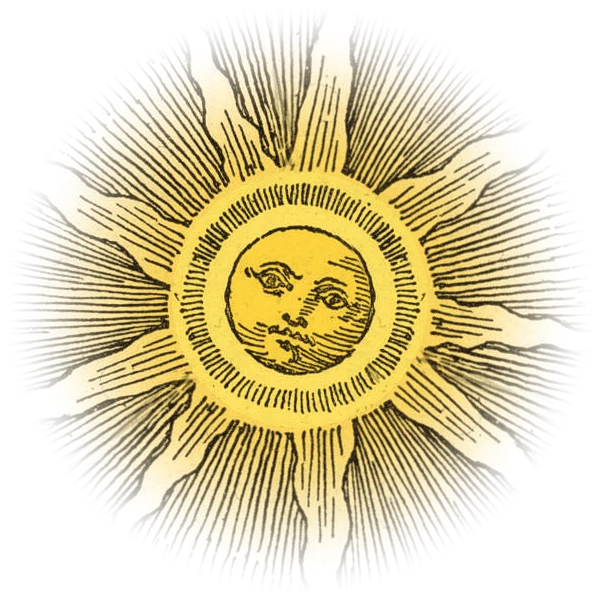
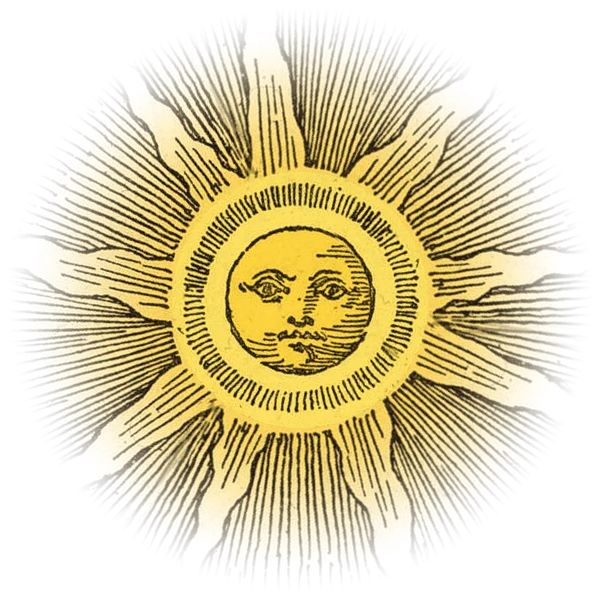
Sky: the real stars (Hipparcos, to magnitude 5) forming the constellations; no hatching; the sun's face upright
Claude-Session: https://claude.ai/code/session_014gHAygrTN4wxu9kfzf1eLB

diff --git a/mapsun.js b/mapsun.js
@@ -336,13 +336,18 @@ async function sunHere() {
 const mat4v = (m, v) => [0, 1, 2, 3].map(i => m[i] * v[0] + m[4 + i] * v[1] + m[8 + i] * v[2] + m[12 + i] * v[3]);
 const skyDir = (az, alt) => [Math.cos(alt * RAD) * Math.sin(az * RAD), Math.sin(alt * RAD), -Math.cos(alt * RAD) * Math.cos(az * RAD)];   // (x east, y up, z south)
 // Behind the map, wherever no earth is seen (around the globe, above the horizon of a tilted view): the sky of Flammarion's
-// engraving (1888) – blue, deeper higher up, finely hatched, with yellow six-pointed stars outlined in black, fixed among
-// themselves and turning with the sky (a scattering, not a star chart). The sun and the moon are cut from the engraving and
-// coloured (sky/sun.webp – its right side, hidden there by the frame, completed from the left; sky/moon.webp, the crescent – v339).
-const STARS = (() => { let sd = 11; const r = () => (sd = (sd * 16807) % 2147483647) / 2147483647;
-  return Array.from({ length: 3600 }, () => { const u = r(), m = r();
-    return { ra: r() * 360, dec: Math.asin(2 * u - 1), s: 0.32 + 0.6 * m ** 2.5, rot: r() * 60, j: Array.from({ length: 6 }, () => 0.85 + 0.3 * r()), h: r() < 0.04 }; }); })();
+// engraving (1888) – blue, deeper higher up – with yellow six-pointed stars outlined in black: the real stars, down to the fifth
+// magnitude (Hipparcos, via d3-celestial: sky/stars.json – [right ascension, declination, magnitude, HIP number], J2000), so that
+// they form the constellations where they stand, turning with the sky. The sun and the moon are cut from the engraving and coloured
+// (sky/sun.webp – its right side, hidden there by the frame, completed from the left, the face set upright; sky/moon.webp – v339/340).
 const SKY = { img: {} };
+function skyStars() {                                               // (loaded once; the map is redrawn when they arrive)
+  if (SKY.stars !== undefined) return SKY.stars; SKY.stars = null;
+  fetch('sky/stars.json').then(r => r.json()).then(a => { SKY.stars = a.map(([ra, dec, mag, id]) => { let sd = id * 7919 % 2147483647 || 1; const r = () => (sd = (sd * 16807) % 2147483647) / 2147483647;
+    return { ra, dec: dec * RAD, s: Math.max(0.16, 0.2 + 0.15 * (5 - mag)), rot: r() * 60, j: Array.from({ length: 6 }, () => 0.88 + 0.24 * r()), h: mag < 0.6 }; }); M.map?.triggerRepaint(); })
+    .catch(() => { SKY.stars = undefined; });
+  return null;
+}
 function skyImg(n) {                                                // (the sprites, loaded once; the map is redrawn when they arrive)
   const o = SKY.img[n]; if (o) return o.complete && o.naturalWidth ? o : null;
   const im = SKY.img[n] = new Image(); im.onload = () => M.map?.triggerRepaint(); im.src = `sky/${n}.webp`; return null;
@@ -354,15 +359,6 @@ function skySunLow() {                                              // (the sun,
     x.globalCompositeOperation = 'destination-in'; x.drawImage(im, 0, 0); SKY.low = c; }
   return SKY.low;
 }
-function skyHatch(y, dir, col) {                                    // (fine diagonal hatching, in device pixels)
-  const dpr = devicePixelRatio || 1, k = `${dir}${dpr}${col}`;
-  if (!SKY[k]) { const n = Math.max(4, Math.round(7 * dpr)), c = document.createElement('canvas'); c.width = c.height = n; const x = c.getContext('2d');
-    x.strokeStyle = col; x.lineWidth = 1.1 * dpr;
-    for (const o of [-n, 0, n]) { x.beginPath(); if (dir > 0) { x.moveTo(o, n); x.lineTo(o + n, 0); } else { x.moveTo(o, 0); x.lineTo(o + n, n); } x.stroke(); }
-    SKY[k] = y.createPattern(c, 'repeat'); }
-  return SKY[k];
-}
-function skyHatchFill(y, dir, col) { y.save(); y.setTransform(1, 0, 0, 1, 0, 0); y.fillStyle = skyHatch(y, dir, col); y.fill(); y.restore(); }   // (the path as drawn; the pattern fixed to the screen)
 function skyStar(y, x0, y0, R, st) {
   y.beginPath();
   for (let i = 0; i < 12; i++) { const a = (st.rot + i * 30) * RAD, q = i % 2 ? 0.42 * R : R * st.j[i / 2]; y[i ? 'lineTo' : 'moveTo'](x0 + q * Math.sin(a), y0 - q * Math.cos(a)); }
@@ -385,13 +381,12 @@ function skyDraw(args) {
   if (bg.width !== Math.round(W * dpr) || bg.height !== Math.round(H * dpr)) { bg.width = Math.round(W * dpr); bg.height = Math.round(H * dpr); }
   const y = bg.getContext('2d'); y.setTransform(dpr, 0, 0, dpr, 0, 0);
   const sp = y.createLinearGradient(0, 0, 0, H); sp.addColorStop(0, '#0f2a66'); sp.addColorStop(1, '#3a73bb'); y.fillStyle = sp; y.fillRect(0, 0, W, H);
-  y.beginPath(); y.rect(0, 0, W, H); skyHatchFill(y, 1, 'rgba(6,14,40,.42)');
   const ref = sunRef(), t = sunTime(), P = args.defaultProjectionData.mainMatrix, MM = m.transform.getMatrixForModel([ref.lng, ref.lat], 0);
   const scr = d => { const c = mat4v(P, mat4v(MM, [...d, 0])); return c[3] > 1e-9 ? [(c[0] / c[3] + 1) / 2 * W, (1 - c[1] / c[3]) / 2 * H] : null; };
   const f = H / 2 / Math.tan((m.transform.fovInRadians || 0.6435) / 2), size = M.cfg.skySize || 10;
   // the stars: each a direction in the sky (right ascension, declination), turned with the sidereal time to the place shown
   { const gm = ((18.697374558 + 24.06570982441908 * (t / 864e5 - 10957.5)) % 24 + 24) % 24 * 15;
-    for (const st of STARS) { const a = sunAt({ dec: st.dec, lon: ((st.ra - gm + 540) % 360) - 180 }, ref.lng, ref.lat), p = scr(skyDir(a.az, a.alt)), R = st.s * RAD * f;
+    for (const st of skyStars() || []) { const a = sunAt({ dec: st.dec, lon: ((st.ra - gm + 540) % 360) - 180 }, ref.lng, ref.lat), p = scr(skyDir(a.az, a.alt)), R = st.s * RAD * f;
       if (!p || p[0] < -2 * R || p[1] < -2 * R || p[0] > W + 2 * R || p[1] > H + 2 * R) continue;
       skyStar(y, p[0], p[1], Math.max(2, R), st); } }
   if (!sunOn()) return;                                              // (the sun and the moon: with day and night)
@@ -413,8 +408,8 @@ function skyDraw(args) {
       const dot = ds[0] * dm[0] + ds[1] * dm[1] + ds[2] * dm[2], pe = ds.map((v, i) => v - dm[i] * dot), pl = Math.hypot(...pe) || 1;
       const q = scr(dm.map((v, i) => v + 0.02 * pe[i] / pl)), th = q ? Math.atan2(q[1] - p[1], q[0] - p[0]) : 0;
       y.save(); y.translate(p[0], p[1]); y.rotate(th);
-      // the dark side, hatched across the hatching of the sky
-      y.beginPath(); y.arc(0, 0, r, 0, 7); y.fillStyle = '#0c2257'; y.fill(); skyHatchFill(y, -1, 'rgba(2,6,22,.55)');
+      // the dark side, a deeper blue
+      y.beginPath(); y.arc(0, 0, r, 0, 7); y.fillStyle = '#0c2257'; y.fill();
       y.lineWidth = Math.max(0.6, r * 0.02); y.strokeStyle = 'rgba(10,8,6,.6)'; y.stroke();
       if (k > 0.02) {
         // a crown of short strokes around the bright limb, as engraved

diff --git a/sw.js b/sw.js
@@ -1,7 +1,7 @@
 // Offline cache for the app shell (dictionaries and texts live in IndexedDB, not here).
 importScripts('reliefsw.js');                                        // (the saved relief: reliefServe)
-const CACHE = 'lesepult-v339';
-const FILES = ['./', 'index.html', 'core.js', 'analysis.js', 'text.js', 'dictview.js', 'dialogs.js', 'export.js', 'library.js', 'libtime.js', 'libmenu.js', 'librev.js', 'glosses.js', 'search.js', 'app.js', 'maps.js', 'maplibre-contour.js', 'reliefsw.js', 'maplayers.js', 'mapsaved.js', 'mapdraw.js', 'maprelief.js', 'mapimg.js', 'mapsun.js', 'sky/sun.webp', 'sky/moon.webp', 'style.css', 'fonts.css', 'manifest.webmanifest', 'icon-180.png', 'icon-192.png', 'icon-512.png', 'fonts/roboto-condensed-latin-400-normal.woff2', ...['latin', 'latin-ext', 'greek', 'greek-ext'].map(x => `fonts/source-sans-3-${x}-wght-normal.woff2`), 'fonts/source-sans-3-latin-wght-italic.woff2', 'fonts/source-sans-3-latin-ext-wght-italic.woff2',
+const CACHE = 'lesepult-v340';
+const FILES = ['./', 'index.html', 'core.js', 'analysis.js', 'text.js', 'dictview.js', 'dialogs.js', 'export.js', 'library.js', 'libtime.js', 'libmenu.js', 'librev.js', 'glosses.js', 'search.js', 'app.js', 'maps.js', 'maplibre-contour.js', 'reliefsw.js', 'maplayers.js', 'mapsaved.js', 'mapdraw.js', 'maprelief.js', 'mapimg.js', 'mapsun.js', 'sky/sun.webp', 'sky/moon.webp', 'sky/stars.json', 'style.css', 'fonts.css', 'manifest.webmanifest', 'icon-180.png', 'icon-192.png', 'icon-512.png', 'fonts/roboto-condensed-latin-400-normal.woff2', ...['latin', 'latin-ext', 'greek', 'greek-ext'].map(x => `fonts/source-sans-3-${x}-wght-normal.woff2`), 'fonts/source-sans-3-latin-wght-italic.woff2', 'fonts/source-sans-3-latin-ext-wght-italic.woff2',
   ...['greek', 'greek-ext', 'latin', 'latin-ext'].flatMap(s => ['400-normal', '700-normal', '400-italic'].map(w => `fonts/gentium-book-plus-${s}-${w}.woff2`))];
 
 self.addEventListener('install', e => e.waitUntil(

diff --git a/dialogs.js b/dialogs.js
@@ -1002,6 +1002,7 @@ const ACKS = [
     ['Natural Earth bathymetry', 'https://www.naturalearthdata.com/', 'the depths of the seas', 'public domain'],
     ['Itiner-e – P. de Soto, A. Pažout, T. Brughmans et al., a high-resolution dataset of roads of the Roman Empire (2025)', 'https://itiner-e.org/', 'the Roman roads of the map packages “Roman roads (Itiner-e)”', 'CC BY 4.0'],
     ['Camille Flammarion, L’atmosphère: météorologie populaire (1888), the wood engraving “Un missionnaire du moyen âge…”', 'https://commons.wikimedia.org/wiki/File:Flammarion.jpg', 'the sun and the moon of the sky, cut from the engraving and coloured; the style of the sky and its stars', 'public domain'],
+    ['The Hipparcos catalogue (ESA, 1997), as prepared by d3-celestial (Olaf Frohn)', 'https://github.com/ofrohn/d3-celestial', 'the stars of the sky, down to the fifth magnitude, where they stand', 'BSD-3-Clause'],
     ['three.js (the three.js authors)', 'https://threejs.org', 'the obelisk of the sundial as a 3D model, with its light and shadow', 'MIT'],
     ['maplibre-contour (Michael Barry) and pmtiles.js (Protomaps)', 'https://github.com/onthegomap/maplibre-contour', 'contour lines drawn from the elevation; reading the map packages', 'BSD-3-Clause'],
     ['J. W. Hanson, An Urban Geography of the Roman World (2016), and J. W. Hanson & S. G. Ortman, estimating the populations of Greek and Roman settlements (2017)', 'https://oxrep.classics.ox.ac.uk/databases/cities/', 'areas and populations of about 900 cities (for the significance of places); data via the Roman ECI project (CC BY-SA 4.0)', 'CC BY-SA 4.0'],
